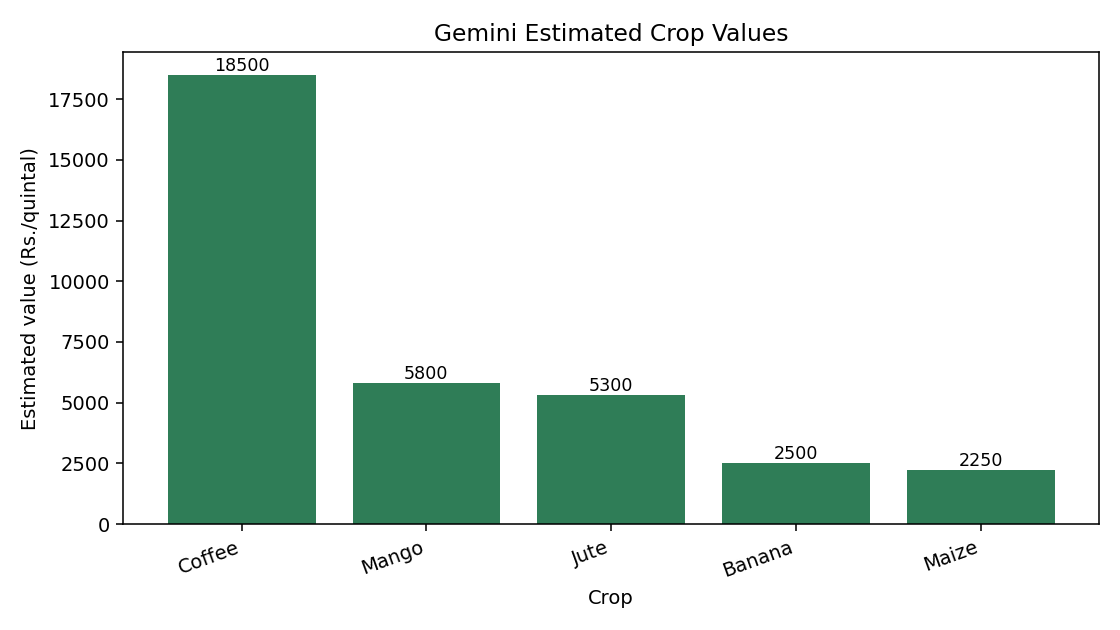
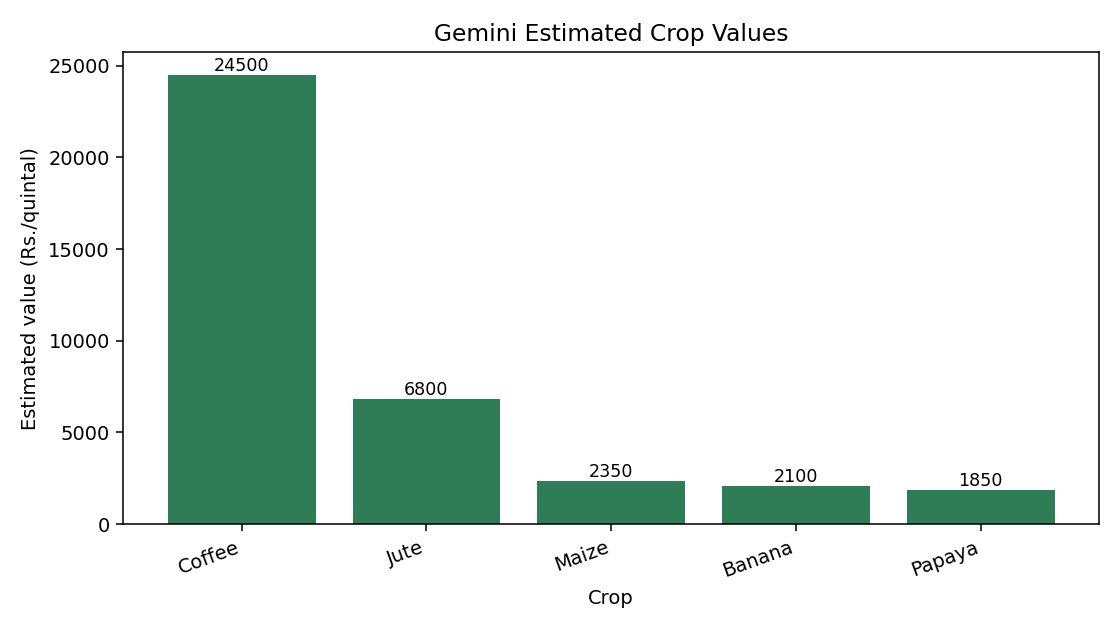
Update app to run in debug mode and refine index.html content for clarity

diff --git a/templates/index.html b/templates/index.html
@@ -207,7 +207,7 @@
   <main>
     <header>
       <h1>AI Smart Agriculture System</h1>
-      <p>Analyze soil nutrients, weather, location, crop predictions, Gemini estimates, and advisory summary.</p>
+      <p>Analyze soil nutrients, weather, location, crop predictions, and advisory summary.</p>
     </header>
 
     <div class="layout">
@@ -248,7 +248,7 @@
         </div>
 
         <ul class="crop-list" id="crops"></ul>
-        <img class="chart" id="chart" alt="Crop estimated value bar chart">
+        <img class="chart" id="chart" alt="Crop predicted value bar chart">
         <div class="summary" id="summary">Run analysis to view the advisory summary.</div>
       </section>
     </div>
@@ -329,7 +329,7 @@
           item.innerHTML = `
             <div>
               <strong>${titleCase(crop.crop)}</strong>
-              <small>estimated value · ${crop.unit || "Rs/quantity"}</small>
+              <small>predicted value · ${crop.unit || "Rs/quantity"}</small>
             </div>
             <strong>Rs. ${Number(crop.estimated_value || 0).toFixed(0)}</strong>
           `;
